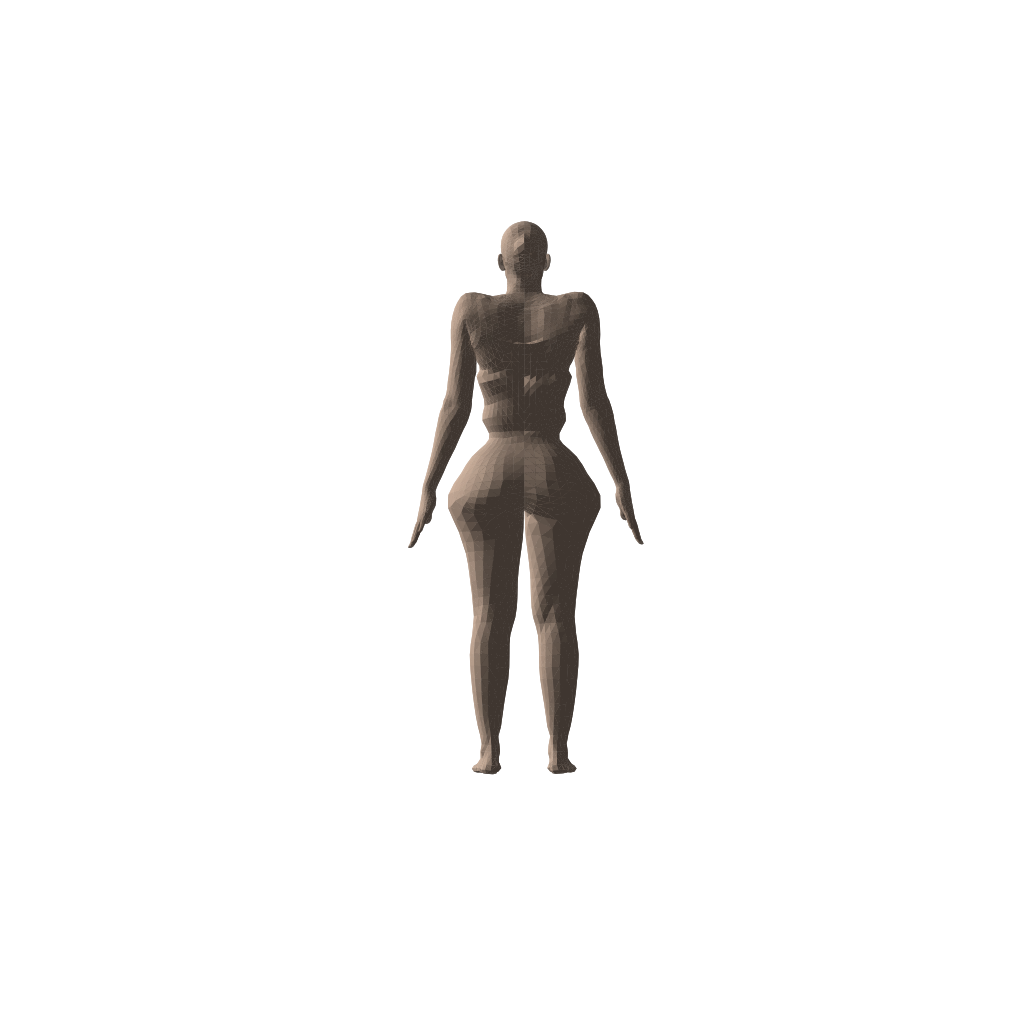
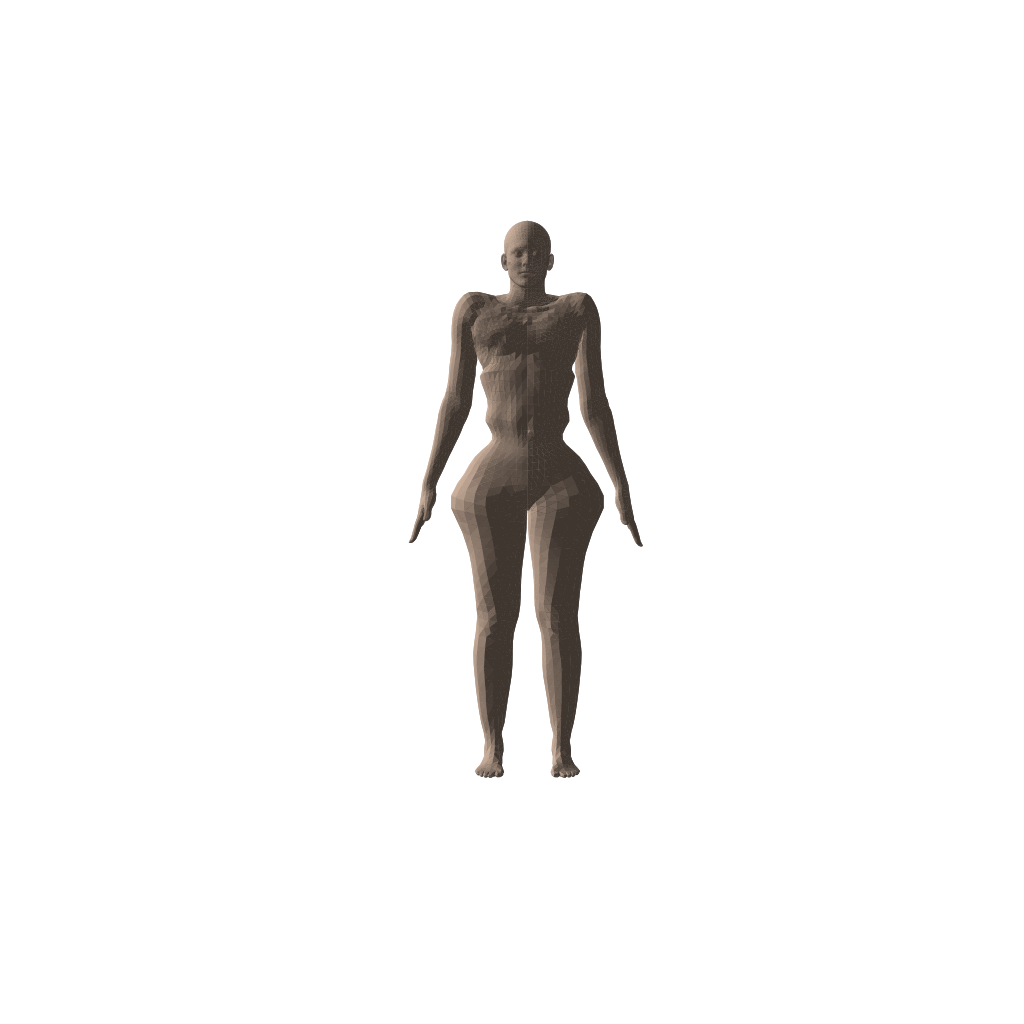
Fix render azimuth offset: view_000 is now the front, not the back
The previous +90 offset put matplotlib's camera at +plot_Y at view_000,
which maps to -world_Z, which is behind a SMPL-X subject (face is at
+world_Z). Pass 1's primitive proxy was front-back symmetric so the bug
was invisible; pass 3's anatomical mesh exposed it. Offset is now -90.

Changed region(s): [[0.4062, 0.2188, 0.625, 0.7812], [0.5312, 0.6562, 0.5625, 0.7812], [0.5625, 0.625, 0.5938, 0.6562]]

diff --git a/src/render.py b/src/render.py
@@ -51,10 +51,11 @@ def render_views(
     extent = (maxs - mins).max() * 0.55
     bbox = [(center[i] - extent, center[i] + extent) for i in range(3)]
 
-    # matplotlib's azim=0 looks down +X, but we want azim=0 to be the front
-    # view (looking down +Z toward -Z). Add 90° so the user-visible angles
-    # match subject-frame conventions (0=front, 90=subject's right, etc.).
-    AZIM_OFFSET_DEG = 90.0
+    # Subject convention: 0°=front, 90°=subject's right, 180°=back, 270°=left.
+    # SMPL-X canonical: face points +Z, so the front camera lives at +Z.
+    # In matplotlib mplot3d our plot_Y = -world_Z, so +Z in world is at
+    # -plot_Y, i.e. matplotlib azim = -90. Offset is -90.
+    AZIM_OFFSET_DEG = -90.0
 
     written: list[Path] = []
     for deg in angles_deg:
